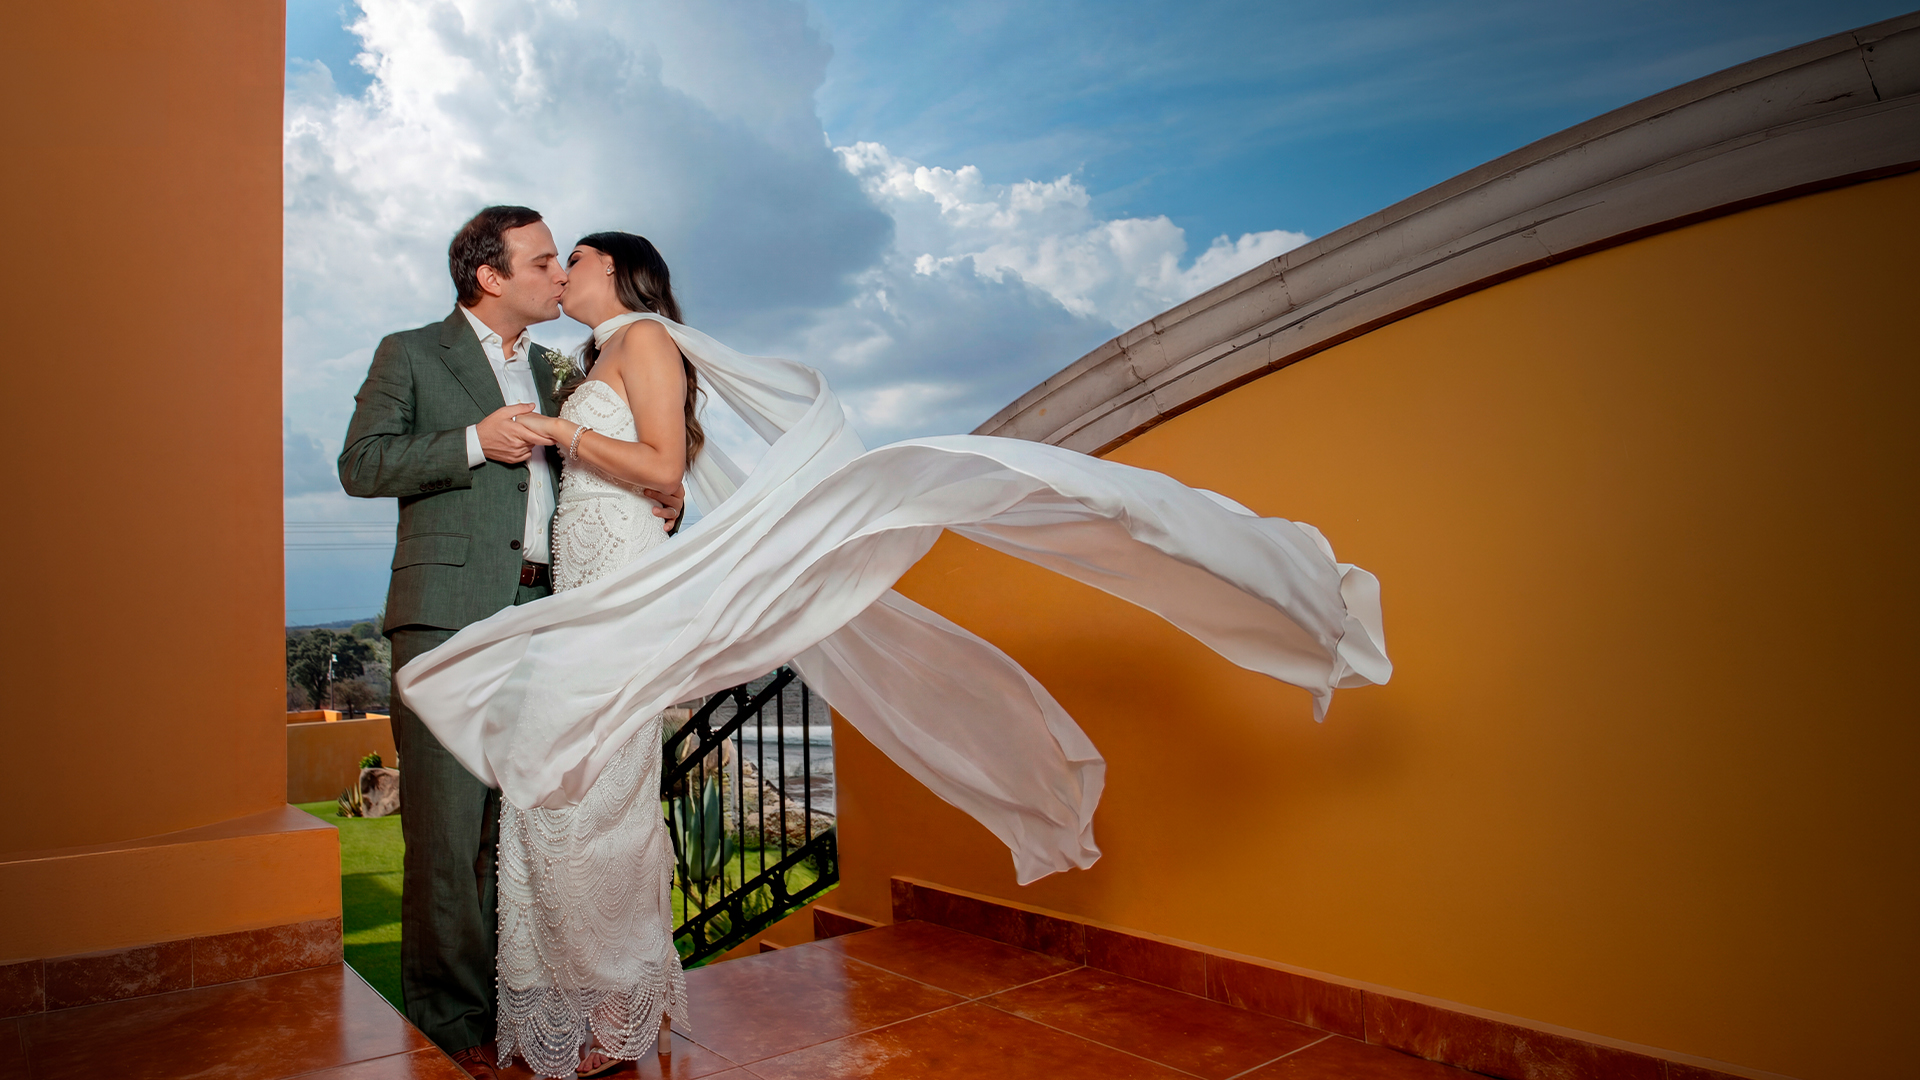
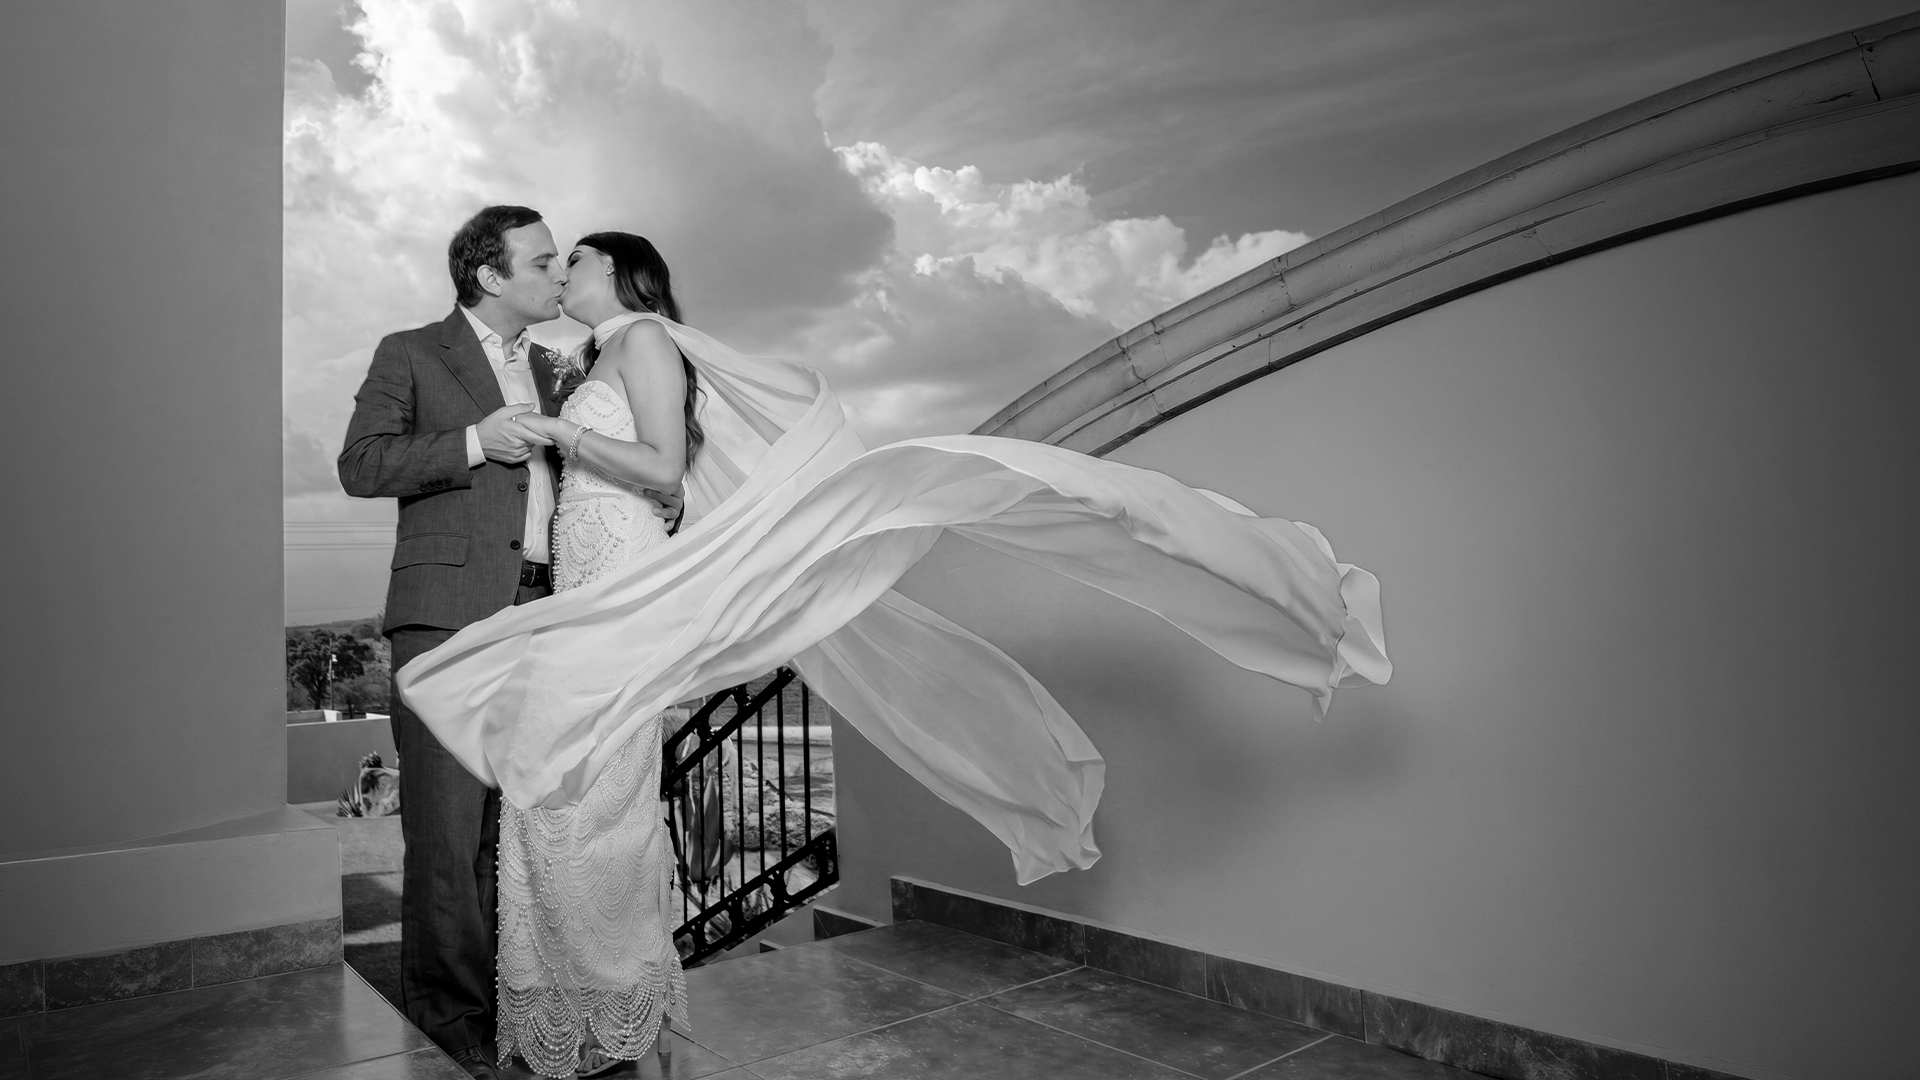
padres

diff --git a/src/views/ViewInvitation.jsx b/src/views/ViewInvitation.jsx
@@ -99,7 +99,7 @@ function Content({ toggleAudio, reproduciendo }) {
         </div>
         {/* FIN SECCION 1 */}
         {/*  SECCION 2 */}
-        {/*    <div className="cont-rompe seccion">
+          <div className="cont-rompe seccion">
           <div className="contenedor-imagenes">
             <div className="img-izquierda updown">
               <img src="/sources/1.jpg" alt="Fondo" className="image-piezas" />
@@ -113,7 +113,7 @@ function Content({ toggleAudio, reproduciendo }) {
               <img src="/sources/3.jpg" alt="Fondo" className="image-piezas" />
             </div>
           </div>
-        </div> */}
+        </div> 
 
         {/* FIN SECCION 2 */}
         {/*  SECCION 3 */}
